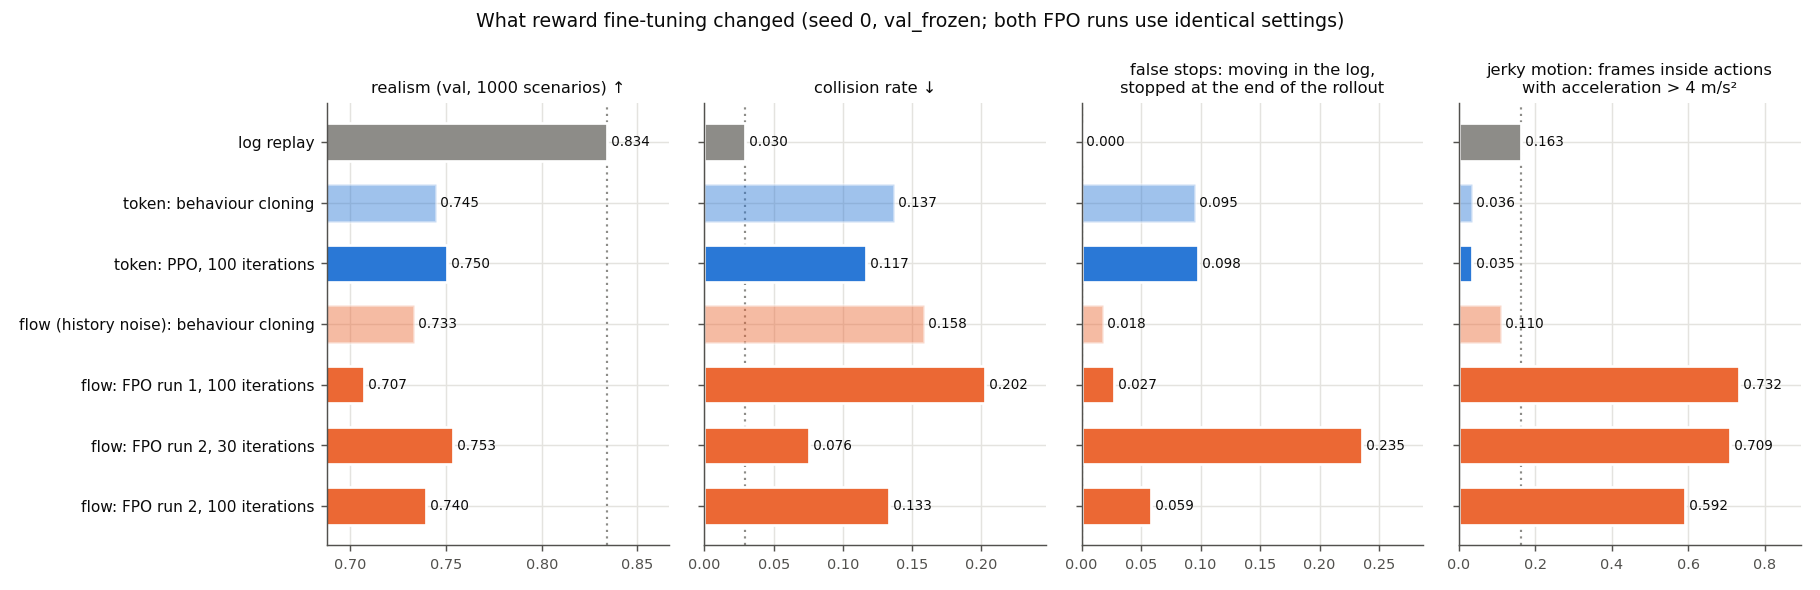
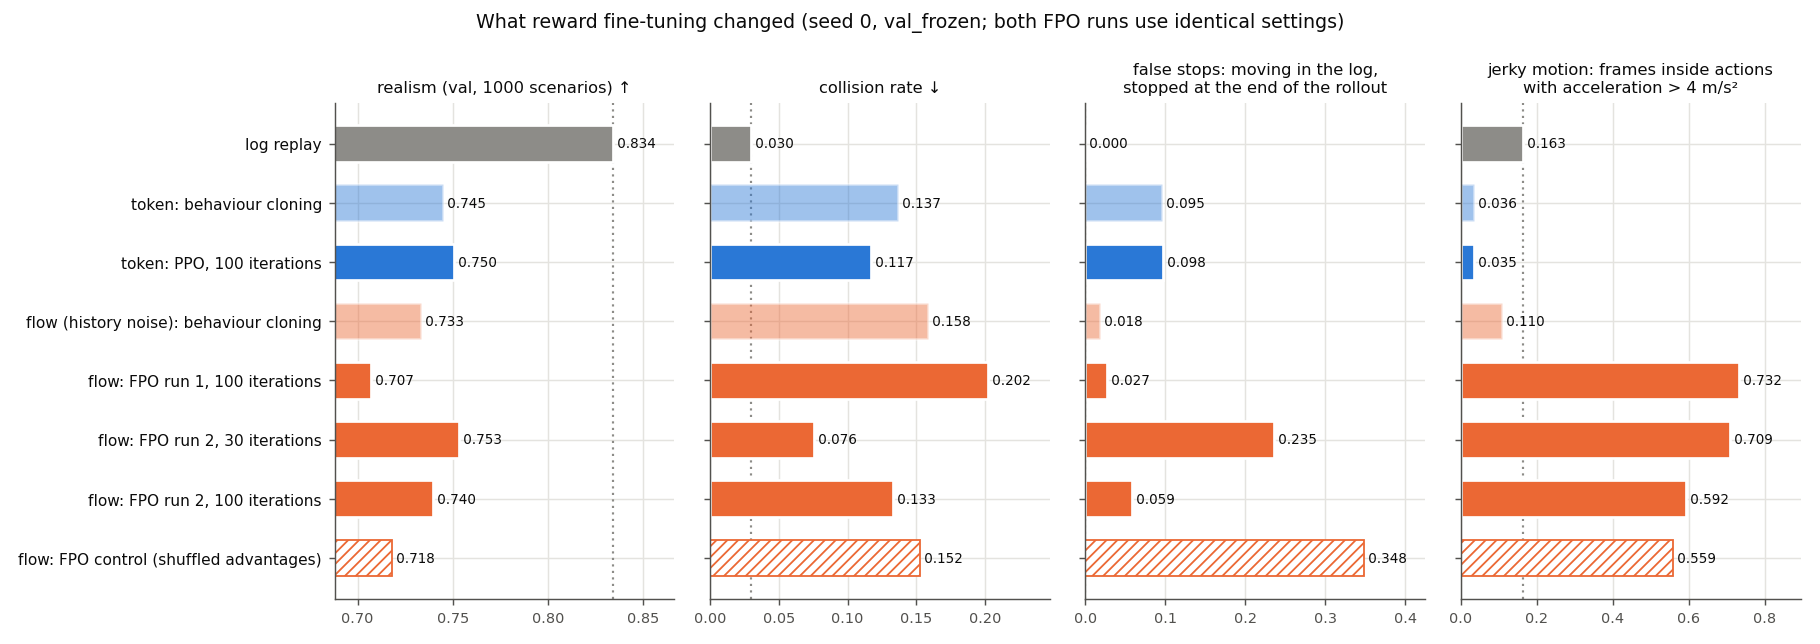
figures: show shuffled controls in behaviour figure

diff --git a/src/tokens_vs_flows/figures.py b/src/tokens_vs_flows/figures.py
@@ -419,7 +419,7 @@ def rl_behaviour(rows: List[Tuple[str, Path, str]], out: Path, title: str = "") 
     """What reward fine-tuning changed in the simulated behaviour, one bar per policy and the log as reference.
 
     rows: [(label, run dir, kind)], kind "ref" (log replay, grey), an arm ("token" / "flow": behaviour-cloned start,
-    light) or "<arm>_rl" (fine-tuned, full colour). Panels: realism (metrics.json), collision rate, false stops
+    light), "<arm>_rl" (fine-tuned, full colour) or "<arm>_ctrl" (shuffled-advantage control, hatched). Panels: realism (metrics.json), collision rate, false stops
     (agents moving at > 2 m/s at the end of the log whose rollout ends stopped; runs/<id>/stopping.json) and jerky
     motion (share of 10 Hz frames inside actions with acceleration > 4 m/s^2; runs/<id>/jitter.json). Dotted lines
     mark the log's own level.
@@ -441,8 +441,12 @@ def rl_behaviour(rows: List[Tuple[str, Path, str]], out: Path, title: str = "") 
             vals.append(v)
             if kind == "ref":
                 ax.axvline(v, color="#8d8c88", ls=(0, (1, 2)), lw=1.2, zorder=1)
-            ax.barh(i, v, height=0.62, color=ARM_COLORS.get(arm, "#8d8c88"), alpha=1.0 if kind.endswith("_rl") or
-                    kind == "ref" else 0.45, edgecolor="white", linewidth=1.5, zorder=2)
+            c = ARM_COLORS.get(arm, "#8d8c88")
+            if kind.endswith("_ctrl"):
+                ax.barh(i, v, height=0.62, color="white", hatch="////", edgecolor=c, linewidth=1.0, zorder=2)
+            else:
+                ax.barh(i, v, height=0.62, color=c, alpha=1.0 if kind.endswith("_rl") or kind == "ref" else 0.45,
+                        edgecolor="white", linewidth=1.5, zorder=2)
             ax.text(v, i, f" {v:.3f}", va="center", fontsize=7.5, color=INK, zorder=3)
         lo = min(vals) - 0.15 * (max(vals) - min(vals)) if "realism" in name else 0.0
         ax.set_xlim(lo, max(vals) + 0.22 * (max(vals) - lo))
@@ -542,10 +546,12 @@ def main():
     behaviour = [("log replay", runs / "eval_log_replay", "ref"),
                  ("token: behaviour cloning", runs / f"bc_token_s{s}", "token"),
                  ("token: PPO, 100 iterations", runs / f"ppo_token_s{s}", "token_rl"),
+                 ("token: PPO control (shuffled advantages)", runs / f"ppo_shuffled_token_s{s}", "token_ctrl"),
                  ("flow (history noise): behaviour cloning", runs / f"bc_flow_noise_s{s}", "flow"),
                  ("flow: FPO run 1, 100 iterations", runs / f"fpo_flow_noise_s{s}", "flow_rl"),
                  ("flow: FPO run 2, 30 iterations", runs / f"fpo_clip0.01_flow_noise_s{s}", "flow_rl"),
-                 ("flow: FPO run 2, 100 iterations", runs / f"fpo_rerun_flow_noise_s{s}", "flow_rl")]
+                 ("flow: FPO run 2, 100 iterations", runs / f"fpo_rerun_flow_noise_s{s}", "flow_rl"),
+                 ("flow: FPO control (shuffled advantages)", runs / f"fpo_shuffled_flow_noise_s{s}", "flow_ctrl")]
     behaviour = [r for r in behaviour if all((r[1] / f).exists() for f in ("metrics.json", "stopping.json", "jitter.json"))]
     rl_behaviour(behaviour, figs / f"rl_behaviour_s{s}.png",
                  title=f"What reward fine-tuning changed (seed {s}, val_frozen; both FPO runs use identical settings)")
